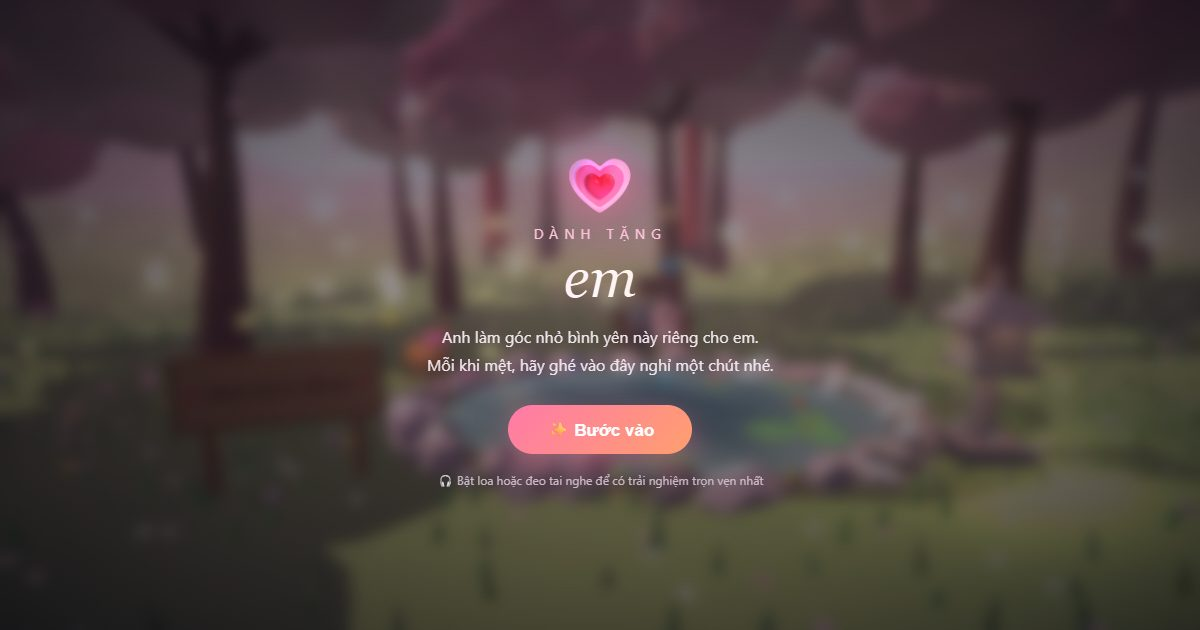
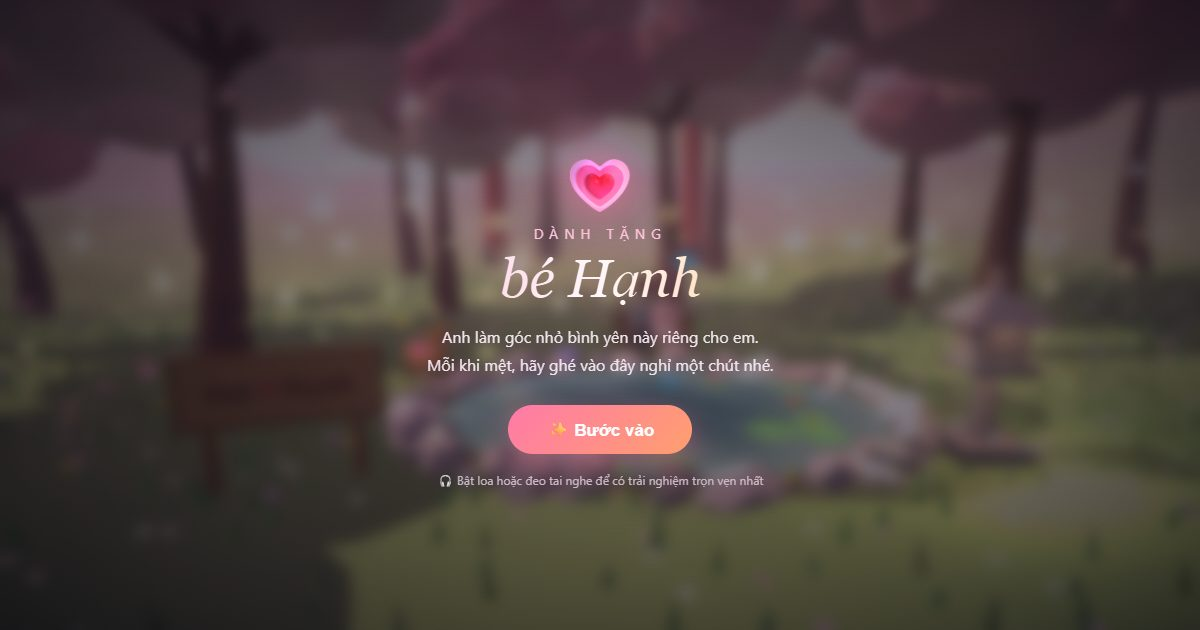
Fix the names (Đạt & bé Hạnh) and hide the dedication in clean mode
- names are hardcoded; settings only ask for the start date and her birthday
- dedication line is hidden together with the tools
- share preview image regenerated with the new name

diff --git a/app.js b/app.js
@@ -3,21 +3,19 @@
  * Handles 4 Scene transitions, Ambient Audio Mixer presets, Zen Tools & Interactivity
  */
 
-// Personal settings: ?for=Name&from=Name&since=YYYY-MM-DD (also remembered in localStorage)
+// Personal settings. The names are fixed; only the dates can be set (love-config.js, ?since=YYYY-MM-DD&bday=MM-DD, or the Settings button).
 (function () {
     const p = new URLSearchParams(location.search);
     const ls = (k) => { try { return localStorage.getItem('zen-' + k) || ''; } catch (_) { return ''; } };
-    const clean = (s, n) => (s || '').trim().slice(0, n);
-    const since = p.get('since') || ls('since');
+    const valid = (v) => (/^\d{4}-\d{2}-\d{2}$/.test(v || '') ? v : '');
+    const since = valid(p.get('since')) || valid(ls('since')) || valid(window.LOVE && window.LOVE.since);
     window.ZEN_CONFIG = {
-        for: clean(p.get('for') || ls('for'), 40) || 'em',
-        from: clean(p.get('from') || ls('from'), 40),
-        since: /^\d{4}-\d{2}-\d{2}$/.test(since) ? since : ''
+        for: 'Hạnh',          // used on the wooden signs: "Đạt ♥ Hạnh"
+        nick: 'bé Hạnh',      // used in greetings: "Dành tặng bé Hạnh"
+        from: 'Đạt',
+        since
     };
-    // remember what the link said, so "add to home screen" / offline launches keep the names and date
-    try {
-        ['for', 'from', 'since'].forEach(k => { const v = p.get(k); if (v) localStorage.setItem('zen-' + k, k === 'since' ? (window.ZEN_CONFIG.since || '') : clean(v, 40)); });
-    } catch (_) { /* ignore */ }
+    try { const v = valid(p.get('since')); if (v) localStorage.setItem('zen-since', v); } catch (_) { /* ignore */ }
 })();
 
 document.addEventListener('DOMContentLoaded', () => {
@@ -203,7 +201,7 @@ document.addEventListener('DOMContentLoaded', () => {
         return Math.max(0, Math.floor((Date.now() - d.getTime()) / 86400000));
     };
     function applyName() {
-        const label = CFG.for;
+        const label = CFG.nick;
         const t1 = document.getElementById('ded-text');
         const t2 = document.getElementById('intro-name');
         if (t1) t1.textContent = 'Dành tặng ' + label + (CFG.since ? '  ·  💞 ' + daysTogether() + ' ngày bên nhau' : '');
@@ -278,23 +276,21 @@ document.addEventListener('DOMContentLoaded', () => {
     window.addEventListener('pointermove', showNav);
     window.addEventListener('pointerdown', showNav);
 
-    // settings: names + the day you got together. Produces a ready-to-send link.
+    // settings: the day you got together and her birthday (names are fixed: Đạt & bé Hạnh)
     document.getElementById('btn-set-name').addEventListener('click', () => {
-        const her = prompt('Tên người nhận (hiện ở dòng "Dành tặng ..."):', CFG.for === 'em' ? '' : CFG.for);
-        if (her === null) return;
-        const me = prompt('Tên của bạn (ký tên trong thư, trên bảng gỗ). Để trống = "Anh":', CFG.from);
-        if (me === null) return;
         const day = prompt('Ngày bắt đầu yêu nhau (định dạng 2024-02-14). Để trống nếu không muốn hiện bộ đếm:', CFG.since);
         if (day === null) return;
+        let bd = '';
+        try { bd = localStorage.getItem('zen-bday') || ''; } catch (_) { /* ignore */ }
+        const bday = prompt('Sinh nhật của bé Hạnh (định dạng tháng-ngày, ví dụ 08-21). Để trống nếu không muốn:', bd);
+        if (bday === null) return;
         const u = new URLSearchParams();
-        const vals = { for: her.trim().slice(0, 40), from: me.trim().slice(0, 40), since: /^\d{4}-\d{2}-\d{2}$/.test(day.trim()) ? day.trim() : '' };
+        const vals = { since: /^\d{4}-\d{2}-\d{2}$/.test(day.trim()) ? day.trim() : '', bday: /^\d{2}-\d{2}$/.test(bday.trim()) ? bday.trim() : '' };
         Object.keys(vals).forEach(k => {
             try { localStorage.setItem('zen-' + k, vals[k]); } catch (_) { /* ignore */ }
             if (vals[k]) u.set(k, vals[k]);
         });
-        const link = location.origin + location.pathname + (u.toString() ? '?' + u.toString() : '');
-        prompt('Link gửi cho người ấy (Ctrl+C để sao chép). Trang sẽ tải lại để áp dụng:', link);
-        location.href = link;
+        location.href = location.origin + location.pathname + (u.toString() ? '?' + u.toString() : '');
     });
 
     // love letter: a different sweet message every day
@@ -302,10 +298,10 @@ document.addEventListener('DOMContentLoaded', () => {
     let lineIdx = Math.floor((Date.now() - new Date().getTimezoneOffset() * 60000) / 86400000) % LINES.length;
     const letterModal = document.getElementById('letter-modal');
     function fillLetter() {
-        document.getElementById('letter-to').textContent = 'Gửi ' + CFG.for + ',';
+        document.getElementById('letter-to').textContent = 'Gửi ' + CFG.nick + ',';
         document.getElementById('letter-body').textContent = LINES[lineIdx];
         document.getElementById('letter-days').textContent = CFG.since ? 'Đã ' + daysTogether() + ' ngày mình bên nhau, và anh muốn còn thật nhiều ngày nữa. 💞' : '';
-        document.getElementById('letter-sign').textContent = '— ' + (CFG.from || 'Anh');
+        document.getElementById('letter-sign').textContent = '— ' + CFG.from;
     }
     const btnLetter = document.getElementById('btn-letter');
     function toggleLetter() {

diff --git a/index.html b/index.html
@@ -4,12 +4,12 @@
     <meta charset="UTF-8">
     <meta name="viewport" content="width=device-width, initial-scale=1.0, viewport-fit=cover">
     <meta name="theme-color" content="#0b0a14">
-    <title>Dành tặng em 💗 ZenHaven</title>
-    <meta name="description" content="Một góc bình yên nhỏ, làm riêng cho em: mưa bên lò sưởi, cực quang, biển hoàng hôn và rừng đào.">
+    <title>Dành tặng bé Hạnh 💗 ZenHaven</title>
+    <meta name="description" content="Một góc bình yên nhỏ, Đạt làm riêng cho bé Hạnh: mưa bên lò sưởi, cực quang, biển hoàng hôn và rừng đào.">
     <meta property="og:type" content="website">
     <meta property="og:site_name" content="ZenHaven">
-    <meta property="og:title" content="Dành tặng em 💗 ZenHaven">
-    <meta property="og:description" content="Một góc bình yên nhỏ, làm riêng cho em: mưa bên lò sưởi, cực quang, biển hoàng hôn và rừng đào.">
+    <meta property="og:title" content="Dành tặng bé Hạnh 💗 ZenHaven">
+    <meta property="og:description" content="Một góc bình yên nhỏ, Đạt làm riêng cho bé Hạnh: mưa bên lò sưởi, cực quang, biển hoàng hôn và rừng đào.">
     <meta property="og:image" content="https://doandatt.github.io/chill-zen-space/og-image.jpg">
     <meta property="og:image:width" content="1200">
     <meta property="og:image:height" content="630">
@@ -128,7 +128,7 @@
     </div>
 
     <!-- Dedication: always visible, even when the tools are hidden -->
-    <div id="dedication"><span class="ded-heart">💗</span> <span id="ded-text">Dành tặng em</span> <span class="ded-heart">💗</span></div>
+    <div id="dedication"><span class="ded-heart">💗</span> <span id="ded-text">Dành tặng bé Hạnh</span> <span class="ded-heart">💗</span></div>
 
     <!-- Tiny navigation shown in clean mode (fades away when idle) -->
     <div id="mini-nav">
@@ -159,7 +159,7 @@
         <div class="intro-card">
             <div class="intro-heart">💗</div>
             <div class="intro-for">Dành tặng</div>
-            <div class="intro-name" id="intro-name">em</div>
+            <div class="intro-name" id="intro-name">bé Hạnh</div>
             <p class="intro-msg">Anh làm góc nhỏ bình yên này riêng cho em.<br>Mỗi khi mệt, hãy ghé vào đây nghỉ một chút nhé.</p>
             <button id="btn-enter" class="intro-btn">✨ Bước vào</button>
             <div class="intro-tip">🎧 Bật loa hoặc đeo tai nghe để có trải nghiệm trọn vẹn nhất</div>

diff --git a/love.js b/love.js
@@ -4,7 +4,7 @@
  */
 const ZLove = (() => {
     const L = window.LOVE || {};
-    const cfg = () => window.ZEN_CONFIG || { for: 'em', from: '', since: '' };
+    const cfg = () => window.ZEN_CONFIG || { for: 'Hạnh', nick: 'bé Hạnh', from: 'Đạt', since: '' };
     const DEFAULT_LETTERS = ['Có em, những ngày mưa cũng trở nên ấm áp.', 'Cảm ơn em vì đã xuất hiện trong cuộc đời anh.'];
     const photos = (L.photos || []).filter(p => p && p.src);
     const pad = (n) => (n < 10 ? '0' : '') + n;
@@ -82,7 +82,7 @@ const ZLove = (() => {
     function todaysEvents(force) {
         const c = cfg(), now = new Date(), y = now.getFullYear(), m = now.getMonth() + 1, d = now.getDate();
         const md = pad(m) + '-' + pad(d);
-        const vars = { name: c.for === 'em' ? 'em' : c.for, from: c.from || 'anh' };
+        const vars = { name: c.nick || c.for, from: c.from || 'anh' };
         const msg = (k, n) => { const t = (L.messages || {})[k] || {}; return { title: fill(t.title, Object.assign({ n }, vars)), text: fill(t.text, Object.assign({ n }, vars)) }; };
         const ev = [];
         const s = dateParts(c.since);
@@ -97,7 +97,9 @@ const ZLove = (() => {
             const days = daysSince();
             if ((L.milestoneDays || []).includes(days)) ev.push(Object.assign({ kind: 'milestone', emoji: '🏆', key: 'ms' + days }, msg('milestone', days)));
         }
-        const bd = (new URLSearchParams(location.search).get('bday') || L.birthday || '').trim();
+        let stored = '';
+        try { stored = localStorage.getItem('zen-bday') || ''; } catch (_) { /* ignore */ }
+        const bd = (new URLSearchParams(location.search).get('bday') || stored || L.birthday || '').trim();
         if (bd && bd === md) ev.push(Object.assign({ kind: 'birthday', emoji: '🎂', key: 'bd' }, msg('birthday', 0)));
         (L.specialDates || []).forEach((e, i) => {
             if (e && e.date === md) ev.push({ kind: 'special', emoji: e.emoji || '🎉', key: 'sp' + i, title: fill(e.title || 'Hôm nay là ngày đặc biệt', vars), text: fill(e.message || '', vars) });

diff --git a/love-config.js b/love-config.js
@@ -2,10 +2,13 @@
  * ✏  FILE NÀY LÀ NƠI BẠN VIẾT NỘI DUNG RIÊNG CHO NGƯỜI ẤY.
  * Chỉ cần sửa các dòng bên dưới rồi lưu lại (xong đẩy lên web là được). Không cần biết lập trình.
  *
- * Tên người nhận, tên của bạn và ngày bắt đầu yêu nhau được đặt ở đường link
- * (hoặc bấm 🧰 Công cụ → ✏ Cài đặt):   ...?for=Linh&from=Đạt&since=2024-02-14
+ * Tên đã được cố định là "Đạt" và "bé Hạnh". Ngày bắt đầu yêu nhau điền ở dòng `since` bên dưới
+ * (hoặc bấm 🧰 Công cụ → ✏ Cài đặt, hoặc thêm vào link ?since=2024-02-14).
  */
 window.LOVE = {
+
+    // 💞 Ngày bắt đầu yêu nhau, dạng 'năm-tháng-ngày' (ví dụ '2024-02-14'). Để trống '' thì không hiện bộ đếm ngày.
+    since: '',
 
     // 💌 Những lời nhắn trong lá thư. Mỗi ngày thư hiện một câu (xoay vòng), bấm "Lời nhắn khác" để đọc thêm.
     //    Hãy thay bằng lời của riêng bạn: kỷ niệm, biệt danh, những điều chỉ hai người hiểu...

diff --git a/zen-utils.js b/zen-utils.js
@@ -294,7 +294,7 @@ const ZU = (() => {
     }
 
     function signParts() {
-        const c = window.ZEN_CONFIG || { for: 'em', from: '' };
+        const c = window.ZEN_CONFIG || { for: 'Hạnh', from: 'Đạt' };
         if (c.from) return [{ t: c.from + ' ' }, { t: '♥', heart: true }, { t: ' ' + c.for }];
         return [{ t: '♥ ', heart: true }, { t: c.for === 'em' ? 'Mãi bên nhau' : c.for }, { t: ' ♥', heart: true }];
     }

diff --git a/style.css b/style.css
@@ -863,3 +863,6 @@ body:not(.clean) #dedication { top: 82px; font-size: 13px; opacity: .75; }
     .scene-btn:not(.active) .t { display: inline; }
 }
 @media (max-width: 460px) { .logo-text { display: none; } }
+
+/* when the tools are hidden, hide the dedication as well so only the scene remains */
+body.clean #dedication { opacity: 0 !important; }

diff --git a/README.md b/README.md
@@ -1,4 +1,4 @@
-# ZenHaven - Dành tặng em 💗
+# ZenHaven - Đạt dành tặng bé Hạnh 💗
 
 Một góc bình yên nhỏ bằng 3D: 4 cảnh (mưa bên lò sưởi, cực quang, biển hoàng hôn, rừng đào), mỗi cảnh có một cặp đôi
 ngồi cạnh nhau, nhạc nền thư giãn, chế độ tập trung (Pomodoro), thư tình mỗi ngày và pháo hoa vào ngày kỷ niệm.
@@ -7,20 +7,12 @@ Trang web tĩnh, không cần cài đặt hay build. Mở `index.html` hoặc đ
 
 ## Cá nhân hóa (chỉ cần sửa 2 chỗ)
 
-### 1) Đường link: tên và ngày yêu nhau
-```
-https://doandatt.github.io/chill-zen-space/?for=Linh&from=Đạt&since=2024-02-14
-```
-| Tham số | Ý nghĩa |
-|---|---|
-| `for`   | tên người nhận ("Dành tặng Linh") |
-| `from`  | tên của bạn (ký tên trong thư, trên bảng gỗ) |
-| `since` | ngày bắt đầu yêu nhau, dạng `YYYY-MM-DD` (hiện bộ đếm ngày, kỷ niệm, cột mốc) |
-| `bday`  | sinh nhật của em, dạng `MM-DD` (tùy chọn) |
-
-Có thể bấm **🧰 Công cụ → ✏ Cài đặt** để nhập, trang sẽ tạo sẵn link để gửi.
+### 1) Tên và ngày
+Tên đã cố định là **Đạt** và **bé Hạnh** (trong `app.js`, mục `ZEN_CONFIG`). Ngày bắt đầu yêu nhau điền vào `since` trong `love-config.js`,
+hoặc thêm vào link `?since=2024-02-14`, hoặc bấm **🧰 Công cụ → ✏ Cài đặt**. Sinh nhật dạng `?bday=08-21` (hoặc điền `birthday` trong `love-config.js`).
 
 ### 2) File `love-config.js`: lời nhắn, ngày đặc biệt, ảnh
+- **since**: ngày bắt đầu yêu nhau.
 - **letters**: các lời nhắn trong lá thư 💌 (mỗi ngày một câu).
 - **birthday / specialDates / milestoneDays / messages**: ngày đặc biệt, pháo hoa và câu chúc.
 - **photos**: ảnh kỷ niệm. Bỏ ảnh vào thư mục `photos/` rồi khai báo, ví dụ
